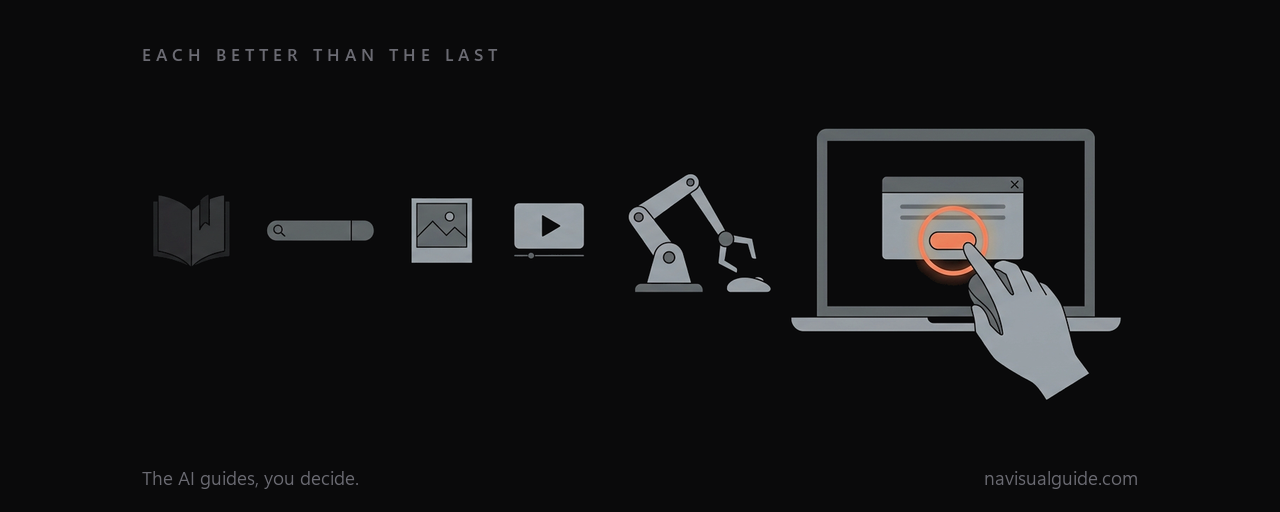
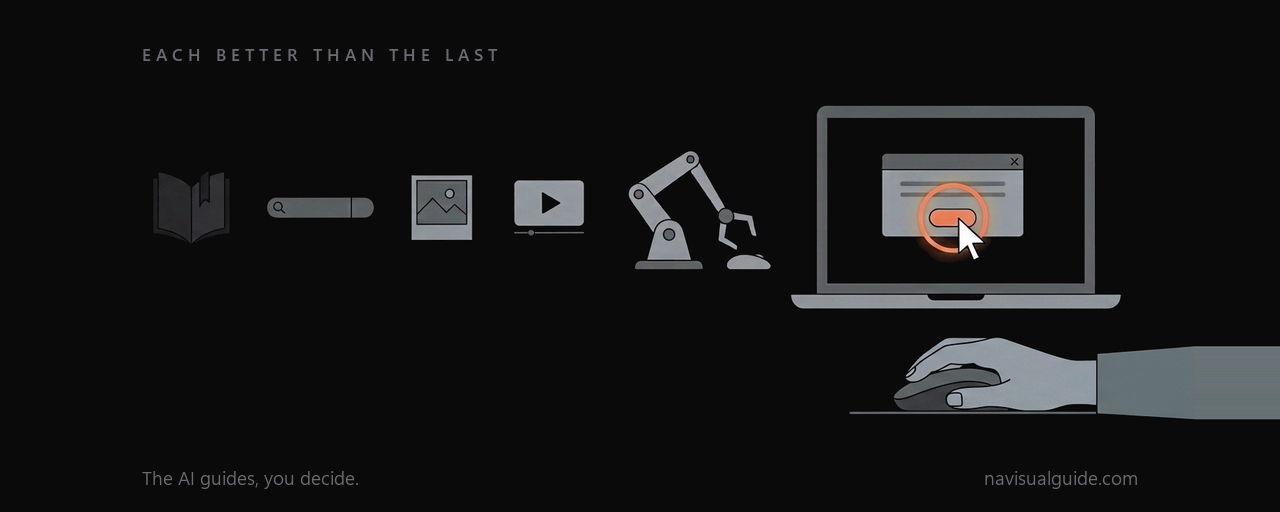
fix(guides): the hand clicks a mouse, not the screen
Asked for "a hand on a mouse about to click", Gemini drew a hand holding a
mouse AND poking the laptop screen with one finger -- a gesture nobody
makes, and the wrong one for a Windows desktop app. Two edit passes on
the same image (gen-image.py gained --edit) kept the layout and replaced
it: a hand resting on a mouse beside the laptop, and a pointer arrow on
the ringed button. Nothing touches the screen.

The fit step needed three changes for the new art, each found by
rendering both crops rather than assuming:

  * the source background and ring hue are now MEASURED. The edit pass
    returned (20,24,27), not the original's (22,26,29).
  * the laptop's right edge decides the scale, so X's 2:1 card crop keeps
    all of it; the first fit let the art bleed and cut the laptop. The
    sleeve's last column repeats to the canvas edge so the arm still
    enters from off-frame.
  * the crop is clamped inside the source minus 6px. Past the edge Pillow
    pads with pure black (a stripe under the art), and Gemini's outermost
    row is lighter than its background (a faint dashed line).

Changed region(s): [[0.125, 0.1875, 1.0, 0.8438]]

diff --git a/tools/hero-answer-where-the-problem-is.py b/tools/hero-answer-where-the-problem-is.py
@@ -1,62 +1,80 @@
 """Hero for 'The answer, where the problem is'.
 
-The illustration is Gemini's (tools/hero-src/, prompt below); this script
-fits it to the site rather than redrawing it:
+The illustration is Gemini's (tools/hero-src/, prompts below); this script
+fits it to the site rather than redrawing it.
 
-  * levels: Gemini's background is a blue-grey (22,26,29), not the site's
-    #0a0a0b. Each channel is remapped so that grey lands on BG and white stays
-    white, which darkens the greys proportionally instead of cutting them out
-    (a cut-out leaves a halo on every anti-aliased edge).
+  * levels: Gemini draws on a blue-grey, not the site's #0a0a0b. Each channel
+    is remapped so that grey lands on BG and white stays white, which darkens
+    the greys proportionally instead of cutting them out (a cut-out leaves a
+    halo on every anti-aliased edge). The source grey is MEASURED -- an edit
+    pass does not return the same background as the image it was given.
   * flatten: the stretch exposes blotches in Gemini's not-quite-flat
     background, so pixels within NOISE of BG are set to BG.
-  * hue: the ring came back golden (hue 22/255). Only SATURATED pixels are
-    turned to the accent's hue (11), ramped by saturation, so the greys are
-    untouched and the glow's soft edge goes with the ring.
-  * fit: the art ran to 7% from each edge, and X's 2:1 card crop takes 10%.
-    It is cropped to its content and scaled into X0..X1 (hero_common.py).
+  * hue: the ring comes back golden. Only SATURATED pixels are turned to the
+    accent's hue, ramped by saturation, so the greys are untouched and the
+    glow's soft edge goes with the ring. Source hue measured, as above.
+  * fit: the laptop's right edge lands on X1, so X's 2:1 card crop keeps the
+    whole laptop, hand and mouse. The arm enters from the right edge, so the
+    sleeve's last column is repeated out to the canvas edge rather than
+    leaving it cut off in mid-air.
 
-Prompt (gemini-3.1-flash-image, 21:9, 2026-10-03):
-  Minimalist editorial illustration on a very dark near-black background.
-  Only greys plus one warm orange accent colour. Wide composition read left to
-  right: a faint progression of small greyed objects, each a little brighter
-  than the last - an open book, a search bar, a photograph, a video play
-  button, a robotic arm reaching for a mouse. On the right, larger and in
-  focus: a laptop screen showing a simple app dialog where one button is
-  circled by a glowing orange ring, and a human hand on a mouse about to click
-  it. Flat vector style, calm, generous negative space. Absolutely no text,
-  letters, numbers, words or logos anywhere. Keep all important content inside
-  the central 80 percent of the width.
+Generated with gemini-3.1-flash-image at 21:9 on 2026-10-03, in three passes:
+
+  1. Minimalist editorial illustration on a very dark near-black background.
+     Only greys plus one warm orange accent colour. Wide composition read left
+     to right: a faint progression of small greyed objects, each a little
+     brighter than the last - an open book, a search bar, a photograph, a
+     video play button, a robotic arm reaching for a mouse. On the right,
+     larger and in focus: a laptop screen showing a simple app dialog where one
+     button is circled by a glowing orange ring, and a human hand on a mouse
+     about to click it. Flat vector style, calm, generous negative space.
+     Absolutely no text, letters, numbers, words or logos anywhere. Keep all
+     important content inside the central 80 percent of the width.
+
+     -> drew a hand holding a mouse AND poking the screen with a finger.
+
+  2. (--edit 1) Remove the hand touching the screen; put a mouse to the right
+     of the laptop with a hand on it, and a white pointer arrow on the ringed
+     button. Nothing touches the screen. Keep everything else the same.
+
+     -> right idea; the hand was oversized and ran off the bottom.
+
+  3. (--edit 2) Hand and mouse about half the size, from the side, resting on
+     the laptop's surface line, entirely inside the image. Keep everything
+     else the same.
 
 Run: python tools/hero-answer-where-the-problem-is.py
 """
 import os
+from collections import Counter
 from PIL import Image
-from hero_common import X0, X1, BG, ROOT, canvas, footer, save
+from hero_common import W, X0, X1, BG, ROOT, canvas, footer, save
 
 SRC = os.path.join(ROOT, "tools", "hero-src", "answer-where-the-problem-is.gemini.png")
-SRC_BG = (22, 26, 29)
-SRC_HUE, ACCENT_HUE = 22, 11
+ACCENT_HUE = 11          # #ff6b35 on Pillow's 0-255 hue scale
+NOISE = 10
+LAPTOP_BELOW = 500    # source rows above the hand and sleeve: the laptop's extent
 
 art = Image.open(SRC).convert("RGB")
+src_bg = Counter(art.get_flattened_data()).most_common(1)[0][0]
+bg = tuple(int(BG[i:i + 2], 16) for i in (1, 3, 5))
 
 # levels
-bg = tuple(int(BG[i:i + 2], 16) for i in (1, 3, 5))
 lut = []
 for c in range(3):
-    lo, to = SRC_BG[c], bg[c]
+    lo, to = src_bg[c], bg[c]
     lut += [max(0, min(255, round(to + (v - lo) * (255 - to) / (255 - lo)))) for v in range(256)]
 art = art.point(lut)
 
-# Gemini's background is not flat: three greys a level apart, in blotches. The
-# stretch above makes them visible, so anything within NOISE of BG becomes BG.
-NOISE = 10
+# flatten
 dist = Image.eval(art.convert("L"), lambda p: 255 if abs(p - sum(bg) // 3) > NOISE else 0)
 art = Image.composite(art, Image.new("RGB", art.size, bg), dist)
 
 # hue, saturated pixels only
 h, s, v = art.convert("HSV").split()
-shift = ACCENT_HUE - SRC_HUE
-
+sat = sorted(hh for hh, ss, vv in zip(h.get_flattened_data(), s.get_flattened_data(),
+                                       v.get_flattened_data()) if ss > 120 and vv > 120)
+shift = ACCENT_HUE - sat[len(sat) // 2]
 hp, sp = h.load(), s.load()
 for y in range(art.height):
     for x in range(art.width):
@@ -64,16 +82,32 @@ for y in range(art.height):
         if w:
             hp[x, y] = (hp[x, y] + round(shift * w)) % 256
 art = Image.merge("HSV", (h, s, v)).convert("RGB")
+print(f"source bg {src_bg}, hue shift {shift}")
 
-# fit
-box = Image.eval(art.convert("L"), lambda p: 255 if p > 40 else 0).getbbox()
+# fit. The laptop decides the scale: its right edge lands on X1, so X's card
+# crop keeps all of it. The sleeve beyond it is a flat horizontal band, so its
+# last column is repeated out to the canvas edge -- the arm still enters from
+# off-frame instead of stopping in mid-air. The crop is clamped to the image:
+# past the edge Pillow pads with pure black, which showed as a stripe.
 m = 24
-art = art.crop((box[0] - m, box[1] - m, box[2] + m, box[3] + m))
+lum = Image.eval(art.convert("L"), lambda p: 255 if p > 40 else 0)
+box = lum.getbbox()
+laptop_right = lum.crop((0, 0, art.width, LAPTOP_BELOW)).getbbox()[2]
+left = max(0, box[0] - m)
+# EDGE: Gemini's outermost rows are lighter than its background and survive
+# the flatten as a dashed line, so they are never part of the crop.
+EDGE = 6
+art = art.crop((left, max(EDGE, box[1] - m), art.width, min(art.height - EDGE, box[3] + m)))
 band_top, band_bot = 78, 452
-k = min((X1 - X0) / art.width, (band_bot - band_top) / art.height)
+k = min((X1 - X0) / (laptop_right + m - left), (band_bot - band_top) / art.height)
 art = art.resize((round(art.width * k), round(art.height * k)), Image.LANCZOS)
 
 img, d = canvas("Each better than the last")
-img.paste(art, (X0 + (X1 - X0 - art.width) // 2, band_top + (band_bot - band_top - art.height) // 2))
+y = band_top + (band_bot - band_top - art.height) // 2
+img.paste(art, (X0, y))
+edge = art.crop((art.width - 1, 0, art.width, art.height))
+for x in range(X0 + art.width, W):
+    img.paste(edge, (x, y))
+print(f"scale {k:.3f}, laptop ends at x={X0 + round((laptop_right - left) * k)} (safe to {X1})")
 footer(d)
 save(img, "answer-where-the-problem-is", "01-each-better-than-the-last.png")

diff --git a/tools/gen-image.py b/tools/gen-image.py
@@ -1,33 +1,48 @@
-"""Generate an image with Gemini and save it as PNG.
+"""Generate or edit an image with Gemini and save it as PNG.
 
-    GEMINI_API_KEY=... python tools/gen-image.py OUT.png "prompt" [aspect] [model]
+    python tools/gen-image.py OUT.png "prompt" [--aspect 21:9] [--edit IN.png]
+                              [--model gemini-3.1-flash-image]
 
-aspect: one of Gemini's ratios (1:1, 3:2, 16:9, 21:9, ...). 5:2 is not one of
-them, so for a hero ask for 21:9 and crop with hero_common's W x H.
+--edit sends IN.png with the prompt, so the model changes that image instead of
+drawing a new one: the way to fix one detail without losing a composition.
+
+--aspect is one of Gemini's ratios (1:1, 3:2, 16:9, 21:9, ...). 5:2 is not one
+of them, so for a hero ask for 21:9 and fit it with hero_common's W x H.
 
 Use it for illustration and atmosphere. For anything carrying exact words or
 the site's exact colours, draw it with Pillow instead (hero_common.py): image
-models garble small text and cannot hit a given hex value.
+models garble small text and cannot hit a given hex value. And read what comes
+back: asked for "a hand on a mouse about to click", it drew a hand holding a
+mouse AND poking the screen.
 
-The key is read from the environment and never written anywhere. It bills the
-owner's Google account per image.
+The key is read from GEMINI_API_KEY and never written anywhere. Every call
+bills the owner's Google account.
 """
-import base64, json, os, sys, urllib.request
+import argparse, base64, json, os, sys, urllib.error, urllib.request
 
-out, prompt = sys.argv[1], sys.argv[2]
-aspect = sys.argv[3] if len(sys.argv) > 3 else "16:9"
-model = sys.argv[4] if len(sys.argv) > 4 else "gemini-3.1-flash-image"
-key = os.environ["GEMINI_API_KEY"]
+ap = argparse.ArgumentParser()
+ap.add_argument("out")
+ap.add_argument("prompt")
+ap.add_argument("--aspect", default="16:9")
+ap.add_argument("--edit")
+ap.add_argument("--model", default="gemini-3.1-flash-image")
+a = ap.parse_args()
+
+parts = []
+if a.edit:
+    parts.append({"inlineData": {"mimeType": "image/png",
+                                 "data": base64.b64encode(open(a.edit, "rb").read()).decode()}})
+parts.append({"text": a.prompt})
 
 body = {
-    "contents": [{"parts": [{"text": prompt}]}],
+    "contents": [{"parts": parts}],
     "generationConfig": {"responseModalities": ["IMAGE"],
-                         "imageConfig": {"aspectRatio": aspect}},
+                         "imageConfig": {"aspectRatio": a.aspect}},
 }
 req = urllib.request.Request(
-    f"https://generativelanguage.googleapis.com/v1beta/models/{model}:generateContent",
+    f"https://generativelanguage.googleapis.com/v1beta/models/{a.model}:generateContent",
     data=json.dumps(body).encode(),
-    headers={"Content-Type": "application/json", "x-goog-api-key": key})
+    headers={"Content-Type": "application/json", "x-goog-api-key": os.environ["GEMINI_API_KEY"]})
 try:
     resp = json.load(urllib.request.urlopen(req, timeout=180))
 except urllib.error.HTTPError as e:
@@ -35,8 +50,8 @@ except urllib.error.HTTPError as e:
 
 for part in resp.get("candidates", [{}])[0].get("content", {}).get("parts", []):
     if "inlineData" in part:
-        open(out, "wb").write(base64.b64decode(part["inlineData"]["data"]))
-        print(f"{out}  {model}  {resp.get('usageMetadata', {})}")
+        open(a.out, "wb").write(base64.b64decode(part["inlineData"]["data"]))
+        print(f"{a.out}  {a.model}  {resp.get('usageMetadata', {}).get('totalTokenCount')} tokens")
         break
 else:
     sys.exit("no image in response: " + json.dumps(resp)[:400])

diff --git a/_guides/answer-where-the-problem-is.md b/_guides/answer-where-the-problem-is.md
@@ -8,7 +8,7 @@ author: "Jin Fu"
 # emits schema.org TechArticle rather than HowTo, and `app` / `os` are left out
 # too, since the chip row under the title is for "which app is this about".
 hero_image: /images/guides/answer-where-the-problem-is/01-each-better-than-the-last.png
-hero_alt: "A row of greyed icons, a book, a search bar, a photo, a video and a robot arm, leading to a laptop where an orange ring circles one button and a hand reaches to click it"
+hero_alt: "A row of greyed icons, a book, a search bar, a photo, a video and a robot arm, leading to a laptop where an orange ring circles one button with the mouse pointer on it, and a hand on the mouse beside the laptop"
 
 draft: false
 ---
